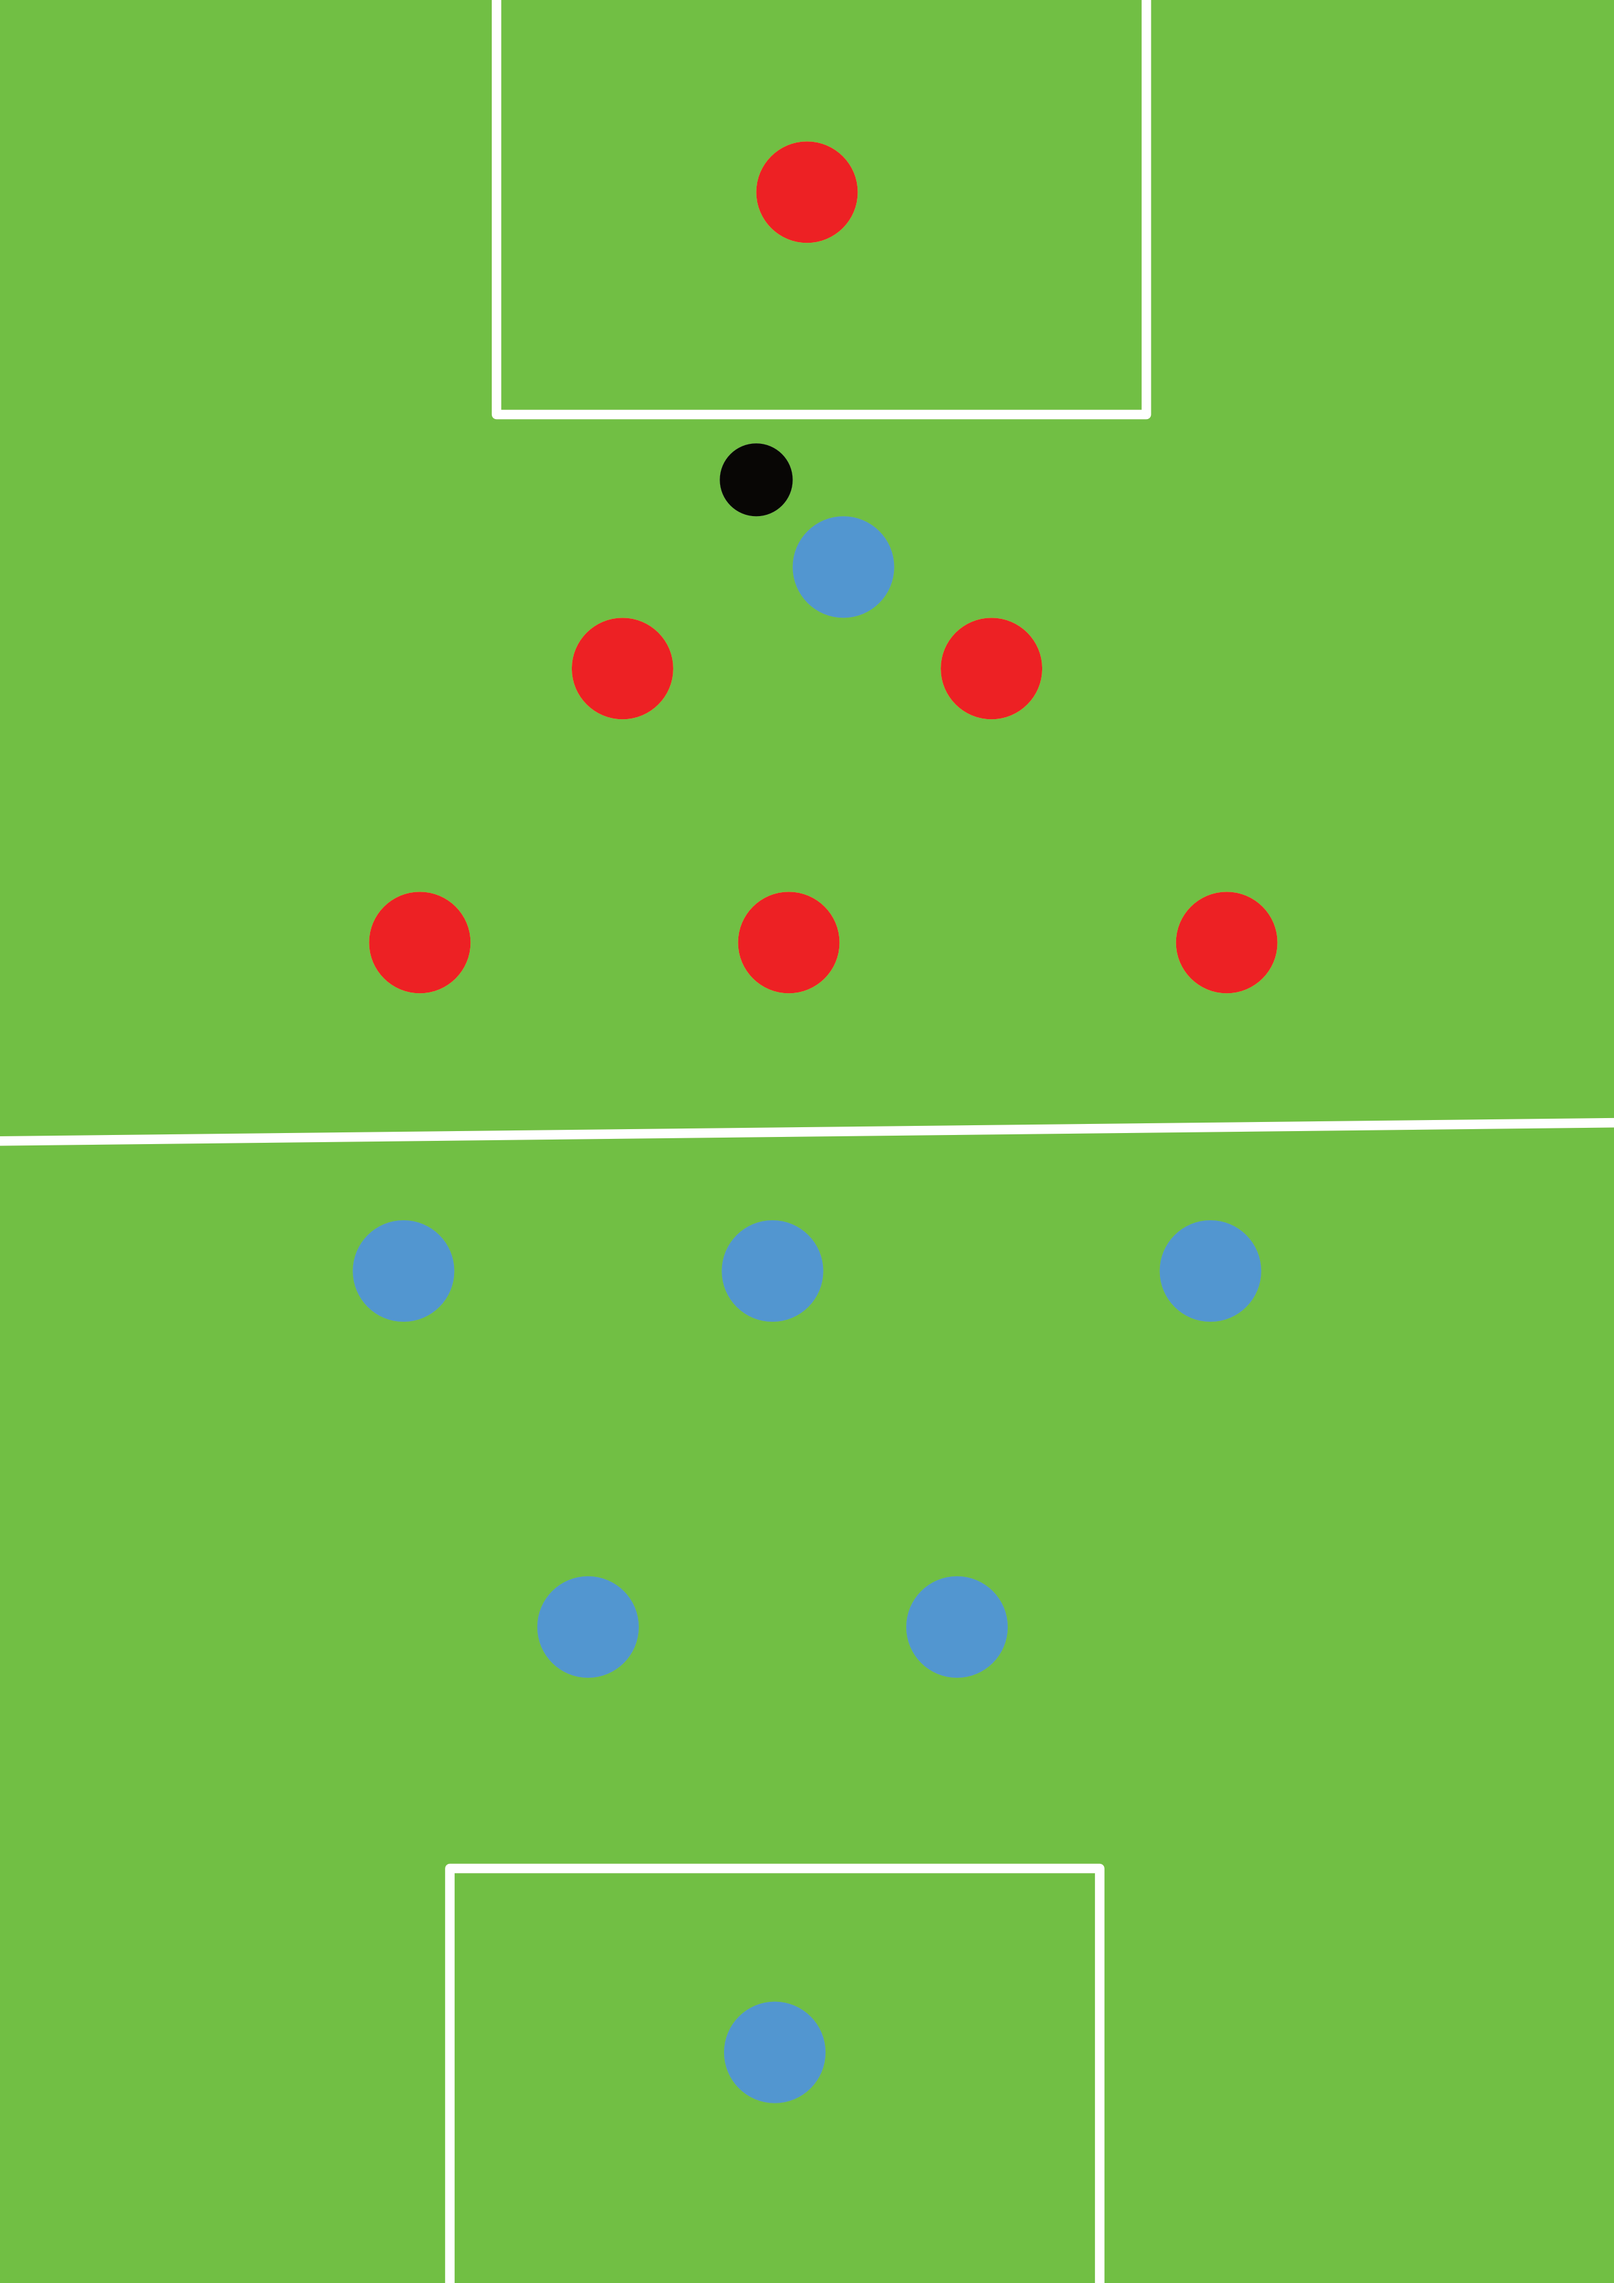
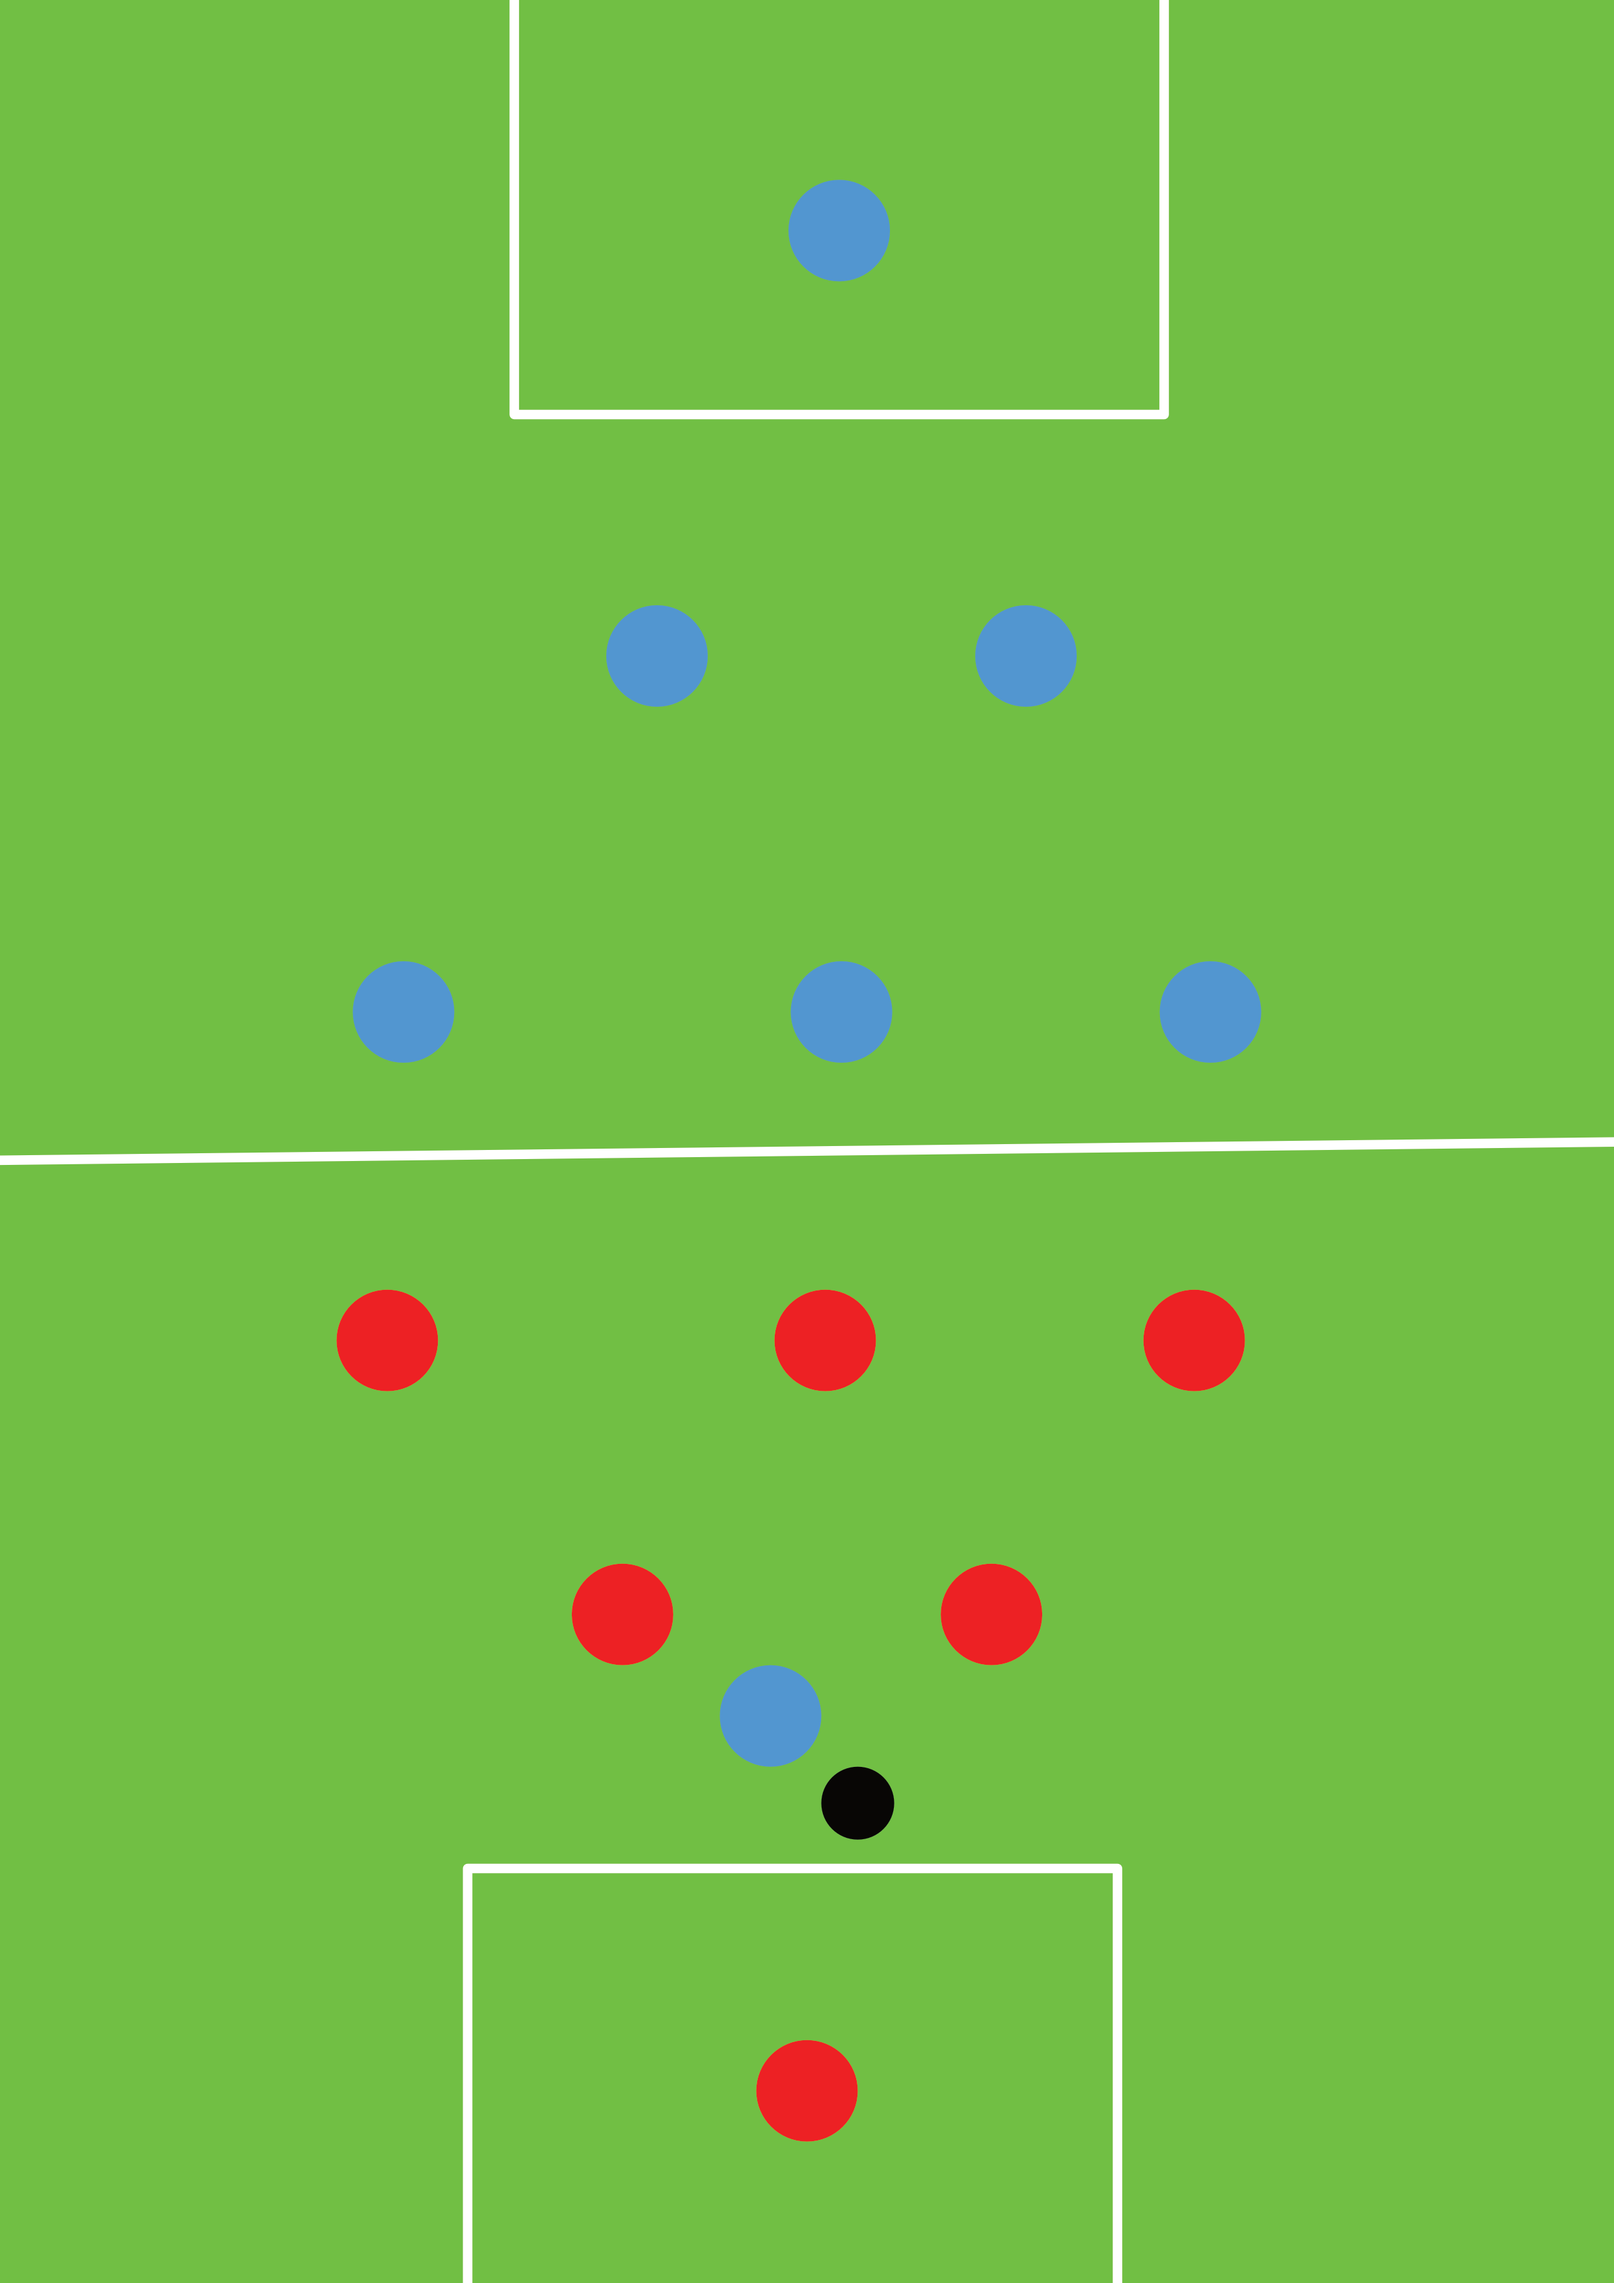
Fixed sides

diff --git a/src/util/ShapeDetector.java b/src/util/ShapeDetector.java
@@ -136,47 +136,29 @@ public class ShapeDetector {
         Player striker = new Player();
 
         if (players != null && !players.isEmpty()) {
-            // Sort players by their proximity to the field's Y or height boundary
-            players.sort(Comparator.comparingInt(Player::getY));
-            Player player = new Player();
-
             if (teamSide.getPosition() == "Up") {
-
-                player = players.get(0);
-                
+                players.sort(Comparator.comparingInt(Player::getY));
             } else {
-                player = players.getLast();
+                players.sort(Comparator.comparingInt(Player::getY).reversed());
             }
+            // Sort players by their proximity to the field's Y or height boundary
+
+            Player player = new Player();
+            player = players.get(0);
+
+            if (player.getColor() == teamSide.getColor() && player.getY() >= teamSide.getY()
+                    && player.getHeight() <= teamSide.getHeight()) {
+
                 goalie = player;
                 goalie.setRole("Goalie");
-
-            if (teamSide.getPosition() == "Up") {
-                for (int i = 0; i < players.size(); i++) {
-                    if (goalie.getColor() == players.get(i).getColor() &&  goalie.getRole() != players.get(i).getRole()) {
-                        defender=players.get(i);
-                        defender.setRole("defender");
-                    }
-                }
-
-                for (int i = players.size(); i > 0; i--) {
-                    if (goalie.getColor() == players.get(i-1).getColor() &&  goalie.getRole() != players.get(i-1).getRole()) {
-                        defender=players.get(i);
-                        defender.setRole("defender");
-                    }
+            }
+            for (int i = 0; i < players.size(); i++) {
+                if (goalie.getColor() == players.get(i).getColor() && goalie.getRole() != players.get(i).getRole()) {
+                    defender = players.get(i);
+                    defender.setRole("defender");
+                    break;
                 }
             }
-            // Assign the closest player to the "Goalie" role
-
-            // Assign the second closest player to the "Defender" role
-            /*
-             * if (players.size() > 1) {
-             * Player goalie2 = players.get(players.size()-1);
-             * goalie2.setRole("Goalie");
-             * Imgproc.putText(imageSourceMat, goalie2.getColor() + " " + goalie2.getRole(),
-             * new Point(goalie2.getX() + goalie2.getWidth(), goalie2.getY() - 10),
-             * Imgproc.FONT_HERSHEY_SIMPLEX, 0.5, new Scalar(255, 255, 0), 2);
-             * }
-             */
         }
         Player closestPlayer = Player.findClosestPlayer(ball, players);
 
@@ -185,20 +167,31 @@ public class ShapeDetector {
                     && closestPlayer.getHeight() <= teamSide.getHeight()) {
                 striker = closestPlayer;
                 striker.setRole("Striker");
+                striker.setStatus(" ");
+
+                if (teamSide.getPosition().equals("Up")) {
+                    if (striker.getY() + striker.getHeight() < defender.getY()) {
+                        striker.setStatus("Offside");
+                    }
+                } else {
+                    if (striker.getY() > defender.getY() + defender.getHeight()) {
+                        striker.setStatus("Offside");
+                    }
+                }
             }
         }
-        
-        Imgproc.putText(imageSourceMat, striker.getColor() + striker.getRole(),
-        new Point(striker.getX() + striker.getWidth(), striker.getY() + 8 * 9),
-        Imgproc.FONT_HERSHEY_SIMPLEX, 0.5, new Scalar(0, 255, 0), 2);
+
+        Imgproc.putText(imageSourceMat, striker.getColor() + striker.getRole() + " " + striker.getStatus(),
+                new Point(striker.getX() + striker.getWidth(), striker.getY() + 8 * 9),
+                Imgproc.FONT_HERSHEY_SIMPLEX, 0.5, new Scalar(0, 255, 0), 2);
 
         Imgproc.putText(imageSourceMat, goalie.getColor() + goalie.getRole(),
-        new Point(goalie.getX() + goalie.getWidth(), goalie.getY() + 8 * 9),
-        Imgproc.FONT_HERSHEY_SIMPLEX, 0.5, new Scalar(0, 255, 0), 2);
+                new Point(goalie.getX() + goalie.getWidth(), goalie.getY() + 8 * 9),
+                Imgproc.FONT_HERSHEY_SIMPLEX, 0.5, new Scalar(0, 255, 0), 2);
 
         Imgproc.putText(imageSourceMat, defender.getColor() + defender.getRole(),
-        new Point(defender.getX() + defender.getWidth(), defender.getY() + 8 * 9),
-        Imgproc.FONT_HERSHEY_SIMPLEX, 0.5, new Scalar(0, 255, 0), 2);
+                new Point(defender.getX() + defender.getWidth(), defender.getY() + 8 * 9),
+                Imgproc.FONT_HERSHEY_SIMPLEX, 0.5, new Scalar(0, 255, 0), 2);
 
     }
 
